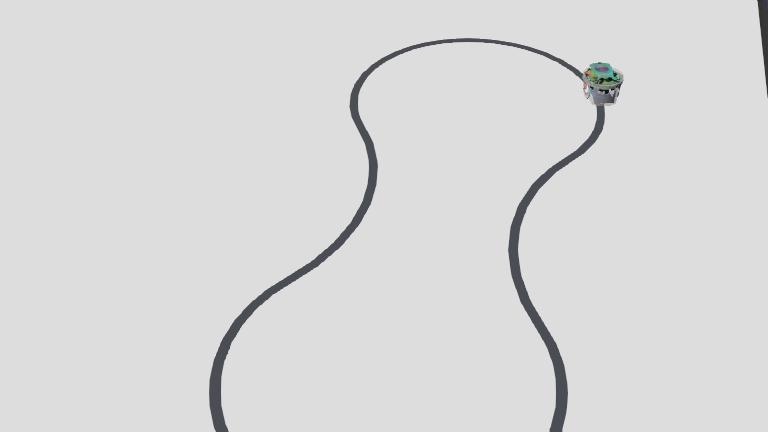
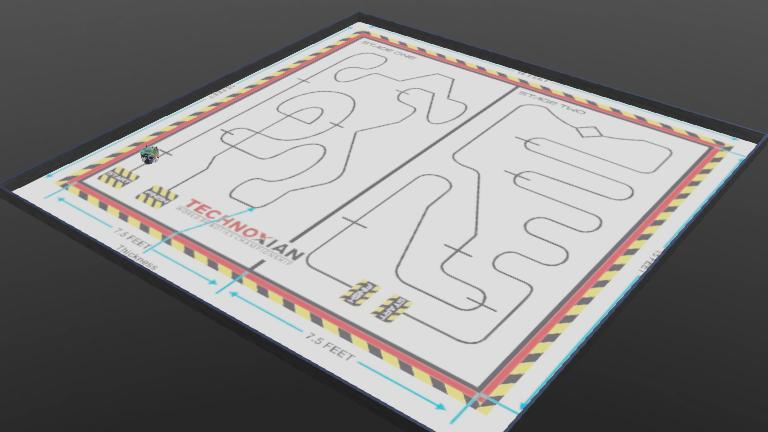
updated the controller to use 9 ir sensors, added textures for aa realistic arena image

diff --git a/controllers/epuck_line_follower/epuck_line_follower.py b/controllers/epuck_line_follower/epuck_line_follower.py
@@ -13,55 +13,50 @@ fast_speed = 3.0
 medium_speed = 1.5
 slow_speed = 0.5
 
-sensor_names = ['ir0', 'ir3', 'ir4', 'ir2', 'ir1']
-sensors = []
-for name in sensor_names:
-    sensor = robot.getDevice(name)
+# ir1 (far right) to ir9 (far left)
+sensor_names = ['ir9', 'ir8', 'ir7', 'ir6', 'ir5', 'ir4', 'ir3', 'ir2', 'ir1']
+sensors = [robot.getDevice(name) for name in sensor_names]
+for sensor in sensors:
     sensor.enable(time_step)
-    sensors.append(sensor)
 
 def black_line(value):
-    if value > 5:
-        return True
-    else:
-        return False
+    return value > 5
 
 while robot.step(time_step) != -1:
-    sensor_values = []
-    for sensor in sensors:
-        sensor_values.append(sensor.getValue())
+    sensor_values = [sensor.getValue() for sensor in sensors]
+    sensor_states = [1 if black_line(val) else 0 for val in sensor_values]
 
-    sensor_states = []
-    for val in sensor_values:
-        if black_line(val):
-            sensor_states.append(1)
-        else:
-            sensor_states.append(0)
-
-    print("Sensor readings:", sensor_values)
+    print("Sensor readings:", [round(v, 2) for v in sensor_values])
     print("Line detected:", sensor_states)
 
-    left_far = sensor_states[0]    # ir0
-    left_mid = sensor_states[1]    # ir3
-    center = sensor_states[2]      # ir4
-    right_mid = sensor_states[3]   # ir2
-    right_far = sensor_states[4]   # ir1
+    # sensor_states[0] is ir9 (leftmost), sensor_states[8] is ir1 (rightmost)
+    left_far = sensor_states[0]
+    left_mid_far = sensor_states[1]
+    left_mid = sensor_states[2]
+    center_left = sensor_states[3]
+    center = sensor_states[4]
+    center_right = sensor_states[5]
+    right_mid = sensor_states[6]
+    right_mid_far = sensor_states[7]
+    right_far = sensor_states[8]
 
-    if center == 1:
+    # Priority-based movement
+    if center:
         left_motor.setVelocity(fast_speed)
         right_motor.setVelocity(fast_speed)
-    elif left_mid == 1:
+    elif center_left or left_mid:
         left_motor.setVelocity(medium_speed)
         right_motor.setVelocity(fast_speed)
-    elif right_mid == 1:
+    elif center_right or right_mid:
         left_motor.setVelocity(fast_speed)
         right_motor.setVelocity(medium_speed)
-    elif left_far == 1:
+    elif left_mid_far or left_far:
         left_motor.setVelocity(slow_speed)
         right_motor.setVelocity(fast_speed)
-    elif right_far == 1:
+    elif right_mid_far or right_far:
         left_motor.setVelocity(fast_speed)
         right_motor.setVelocity(slow_speed)
     else:
+        # Stop if no line is detected
         left_motor.setVelocity(0)
         right_motor.setVelocity(0)
